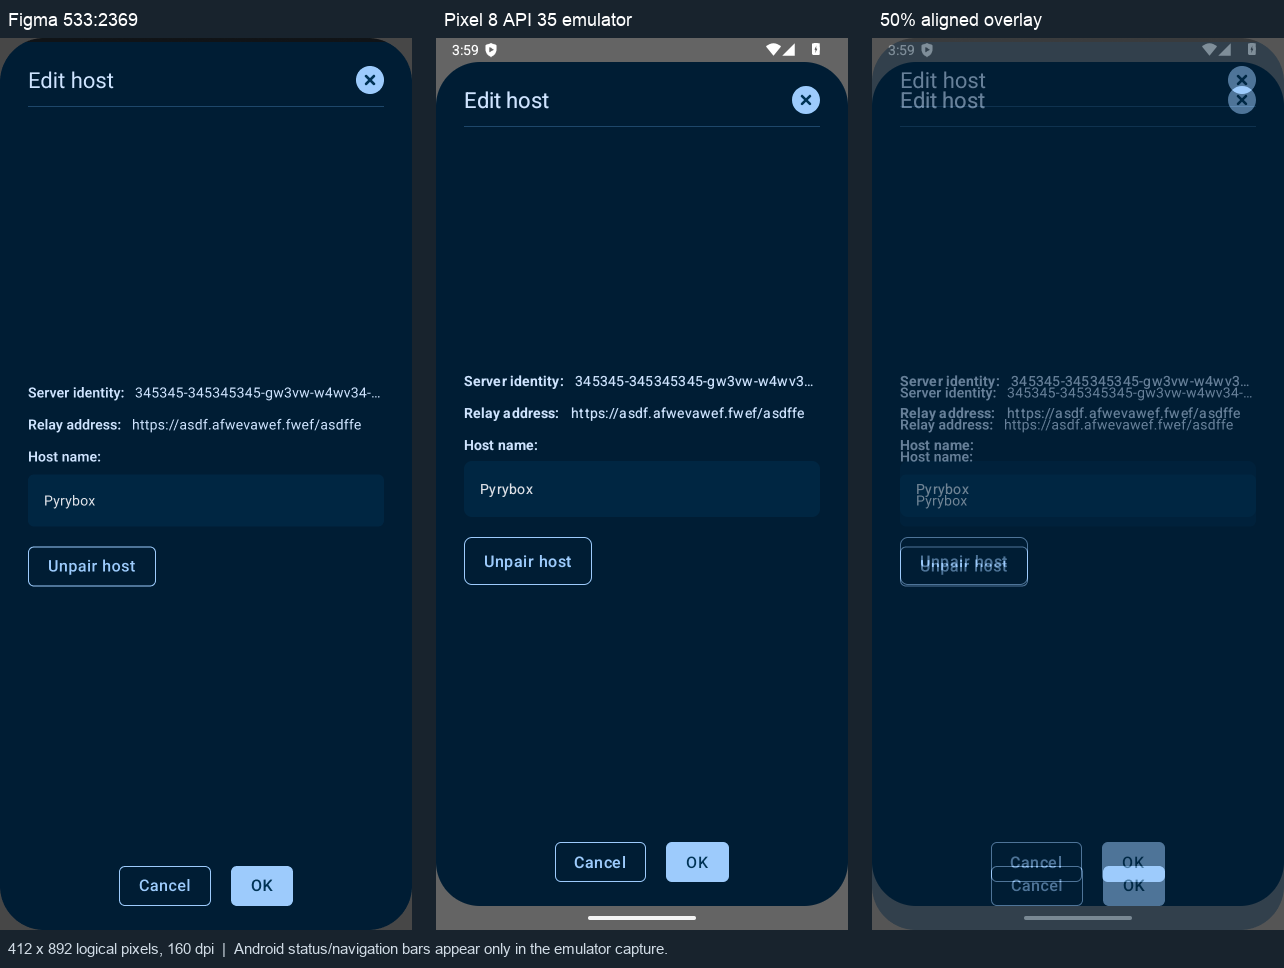
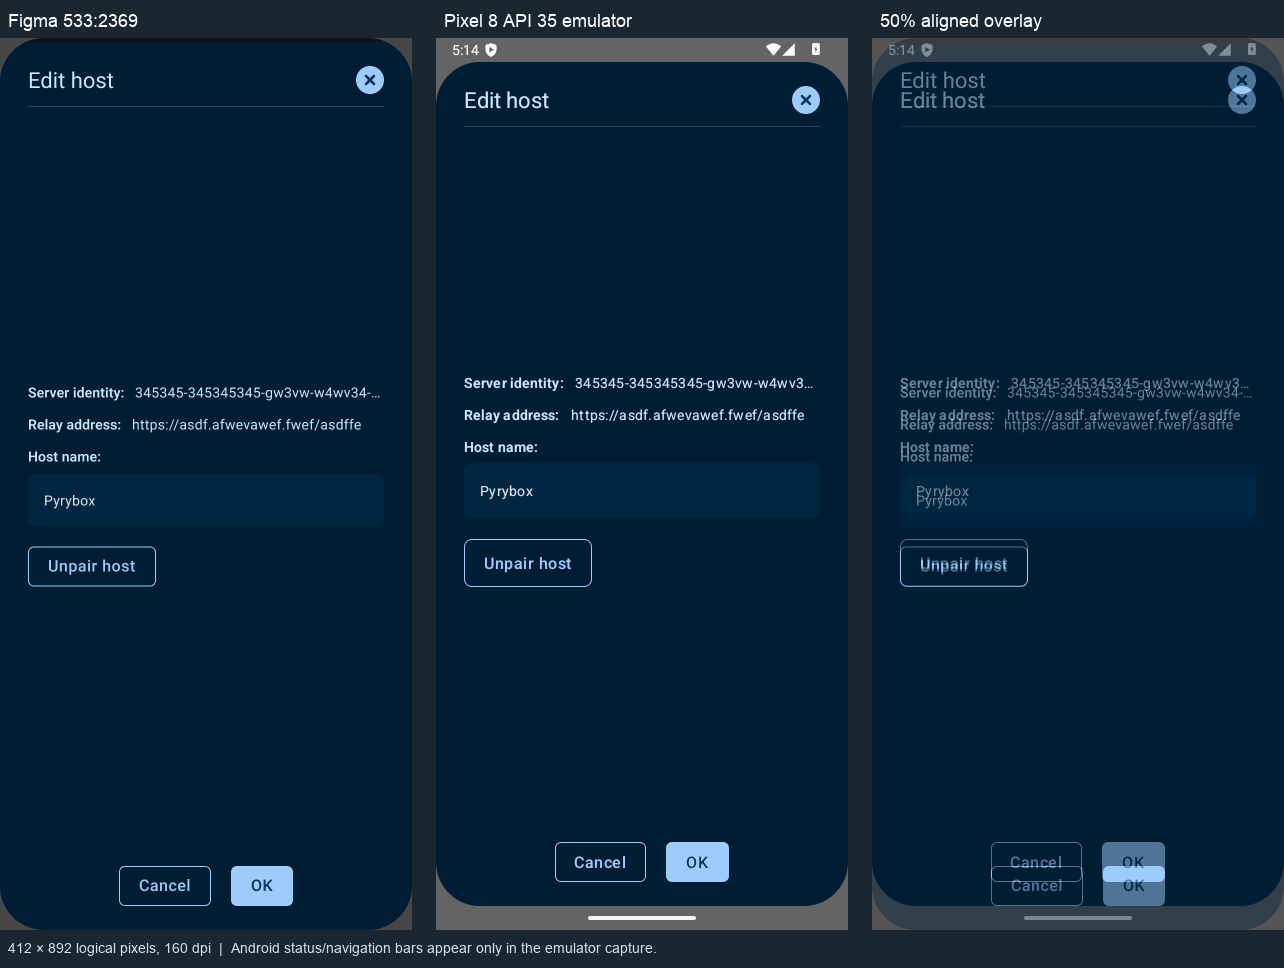
fix: keep modal footer actions scrollable with IME (#1232)

diff --git a/app/src/androidTest/java/de/pyryco/mobile/ui/conversations/thread/ComposerImagePasteDeviceTest.kt b/app/src/androidTest/java/de/pyryco/mobile/ui/conversations/thread/ComposerImagePasteDeviceTest.kt
@@ -6,8 +6,11 @@ import android.content.ContentValues
 import android.content.Context
 import android.graphics.Bitmap
 import android.net.Uri
+import android.os.ParcelFileDescriptor
 import android.provider.MediaStore
+import android.view.View
 import androidx.compose.runtime.getValue
+import androidx.compose.ui.platform.LocalView
 import androidx.compose.ui.semantics.SemanticsActions
 import androidx.compose.ui.test.hasSetTextAction
 import androidx.compose.ui.test.junit4.createComposeRule
@@ -52,6 +55,7 @@ class ComposerImagePasteDeviceTest {
     @Test
     fun pastingAnImageContentUri_addsItToTheStrip() {
         val image = insertPng()
+        var hostView: View? = null
         val viewModel =
             ThreadViewModel(
                 SavedStateHandle(mapOf("serverId" to "host", "conversationId" to "chat")),
@@ -63,6 +67,7 @@ class ComposerImagePasteDeviceTest {
             val attachments by viewModel.pendingAttachments.collectAsStateWithLifecycle()
             val draft by viewModel.draft.collectAsStateWithLifecycle()
             PyrycodeMobileTheme {
+                hostView = LocalView.current
                 ThreadScreen(
                     state = ThreadUiState(conversationId = "chat", displayName = "Chat"),
                     onBack = {},
@@ -75,6 +80,20 @@ class ComposerImagePasteDeviceTest {
                     onAttachmentsPicked = viewModel::addPickedAttachments,
                 )
             }
+        }
+        // The managed API 33 image can show a Bluetooth crash dialog above the test host.
+        // Clipboard paste needs the host window focused before the action is sent.
+        composeRule.waitUntil(10_000) {
+            val focused = composeRule.runOnIdle { hostView?.hasWindowFocus() }
+            if (focused == false) {
+                ParcelFileDescriptor
+                    .AutoCloseInputStream(
+                        InstrumentationRegistry.getInstrumentation().uiAutomation.executeShellCommand(
+                            "am broadcast -a android.intent.action.CLOSE_SYSTEM_DIALOGS",
+                        ),
+                    ).use { it.readBytes() }
+            }
+            focused == true
         }
         composeRule.runOnUiThread {
             context

diff --git a/app/src/main/java/de/pyryco/mobile/ui/components/MobileModal.kt b/app/src/main/java/de/pyryco/mobile/ui/components/MobileModal.kt
@@ -20,7 +20,6 @@ import androidx.compose.foundation.layout.fillMaxWidth
 import androidx.compose.foundation.layout.height
 import androidx.compose.foundation.layout.heightIn
 import androidx.compose.foundation.layout.imePadding
-import androidx.compose.foundation.layout.offset
 import androidx.compose.foundation.layout.padding
 import androidx.compose.foundation.layout.requiredSize
 import androidx.compose.foundation.layout.safeDrawing
@@ -231,7 +230,7 @@ private fun MobileModalShell(
                         Modifier
                             .verticalScroll(shellScroll)
                             .then(if (pinned) Modifier.height(maxHeight) else Modifier)
-                            .padding(horizontal = 28.dp, vertical = 24.dp),
+                            .padding(start = 28.dp, end = 28.dp, top = 24.dp, bottom = 20.dp),
                     verticalArrangement = Arrangement.spacedBy(20.dp),
                 ) {
                     Column(verticalArrangement = Arrangement.spacedBy(12.dp)) {
@@ -322,9 +321,8 @@ internal fun ModalCancelButton(
                 ),
             onClick = onClick,
             interactionSource = source,
-            // Material reserves a 48 dp hit area around the 40 dp surface. Shift that reservation
-            // down by 4 dp so the visible button ends at the footer's 24 dp bottom inset.
-            modifier = Modifier.minimumInteractiveComponentSize().offset(y = 4.dp),
+            // Material reserves an invisible 48 dp hit area around the 40 dp surface.
+            modifier = Modifier.minimumInteractiveComponentSize(),
             enabled = enabled,
             shape = RoundedCornerShape(6.dp),
             border = BorderStroke(1.dp, MaterialTheme.colorScheme.primary),
@@ -361,7 +359,7 @@ internal fun ModalSubmitButton(
                     contentColor = MaterialTheme.colorScheme.onPrimary,
                 ),
             interactionSource = source,
-            modifier = Modifier.minimumInteractiveComponentSize().offset(y = 4.dp),
+            modifier = Modifier.minimumInteractiveComponentSize(),
             enabled = enabled,
             shape = RoundedCornerShape(6.dp),
             contentPadding = PaddingValues(horizontal = 20.dp, vertical = 8.dp),

diff --git a/app/src/androidTest/java/de/pyryco/mobile/ui/conversations/thread/QuestionBatchModalTest.kt b/app/src/androidTest/java/de/pyryco/mobile/ui/conversations/thread/QuestionBatchModalTest.kt
@@ -73,9 +73,13 @@ class QuestionBatchModalTest {
     private val answers = mutableListOf<List<QuestionAnswer>>()
     private val refusals = mutableListOf<String>()
     private var failure: Throwable? = null
+    private var observedDialogView: View? = null
 
-    /** The gate's own window: the focused global view that is not the activity's. */
-    private fun dialogView(): View = checkNotNull(WindowInspector.getGlobalWindowViews().lastOrNull { it.hasWindowFocus() })
+    /** Keep the gate window found before the IME can move focus away from it. */
+    private fun dialogView(): View =
+        observedDialogView
+            ?: checkNotNull(WindowInspector.getGlobalWindowViews().lastOrNull { it.hasWindowFocus() })
+                .also { observedDialogView = it }
 
     private fun show(
         batch: QuestionBatch = batch(),

diff --git a/docs/specs/architecture/1232-shared-mobile-modal-figma.md b/docs/specs/architecture/1232-shared-mobile-modal-figma.md
@@ -72,3 +72,4 @@ Pending for the documentation stage: update `docs/knowledge/features/mobile-moda
 - 2026-09-28: Pixel comparison resolved the button measurement question: `minimumInteractiveComponentSize` preserves an invisible 48 dp target around the 40 dp surface; a 4 dp local offset places that surface 24 dp above the modal's safe-area bottom. The existing 28 dp vector path matches the exported Figma foreground exactly; its circle uses the current theme roles. Android's real status and navigation bars occupy 24 dp each in the capture, while the Figma render omits them.
 - 2026-09-28: The gate device test's `Espresso.pressBack` selected the unfocused activity root while the dialog held focus. A real device Back key preserves the intended security assertion and passed on the focused rerun.
 - 2026-09-28: Figma `489:1876` has Hover roles. Material's default hover ripple layered a second color over the referenced fill, so the action functions use a controlled hover interaction source and suppress that ripple only while hovered; touch press feedback remains native. The focused pixel test drives HoverInteraction directly because Robolectric does not deliver a synthetic mouse-enter event to the dialog.
+- 2026-09-28 rework: `ModalSubmitButton`'s local 4 dp offset made compact-landscape `performScrollTo` stall on the footer action. Keep the 48 dp invisible reservation centered on the 40 dp surface and place its visible bottom at the same 24 dp Figma inset through `MobileModalShell` bottom spacing instead. `QuestionBatchModalTest` retains the dialog view found before the IME changes focus. `ComposerImagePasteDeviceTest` waits for its activity to regain focus after an observed emulator Bluetooth crash dialog before exercising clipboard paste; neither test changes product behavior.
